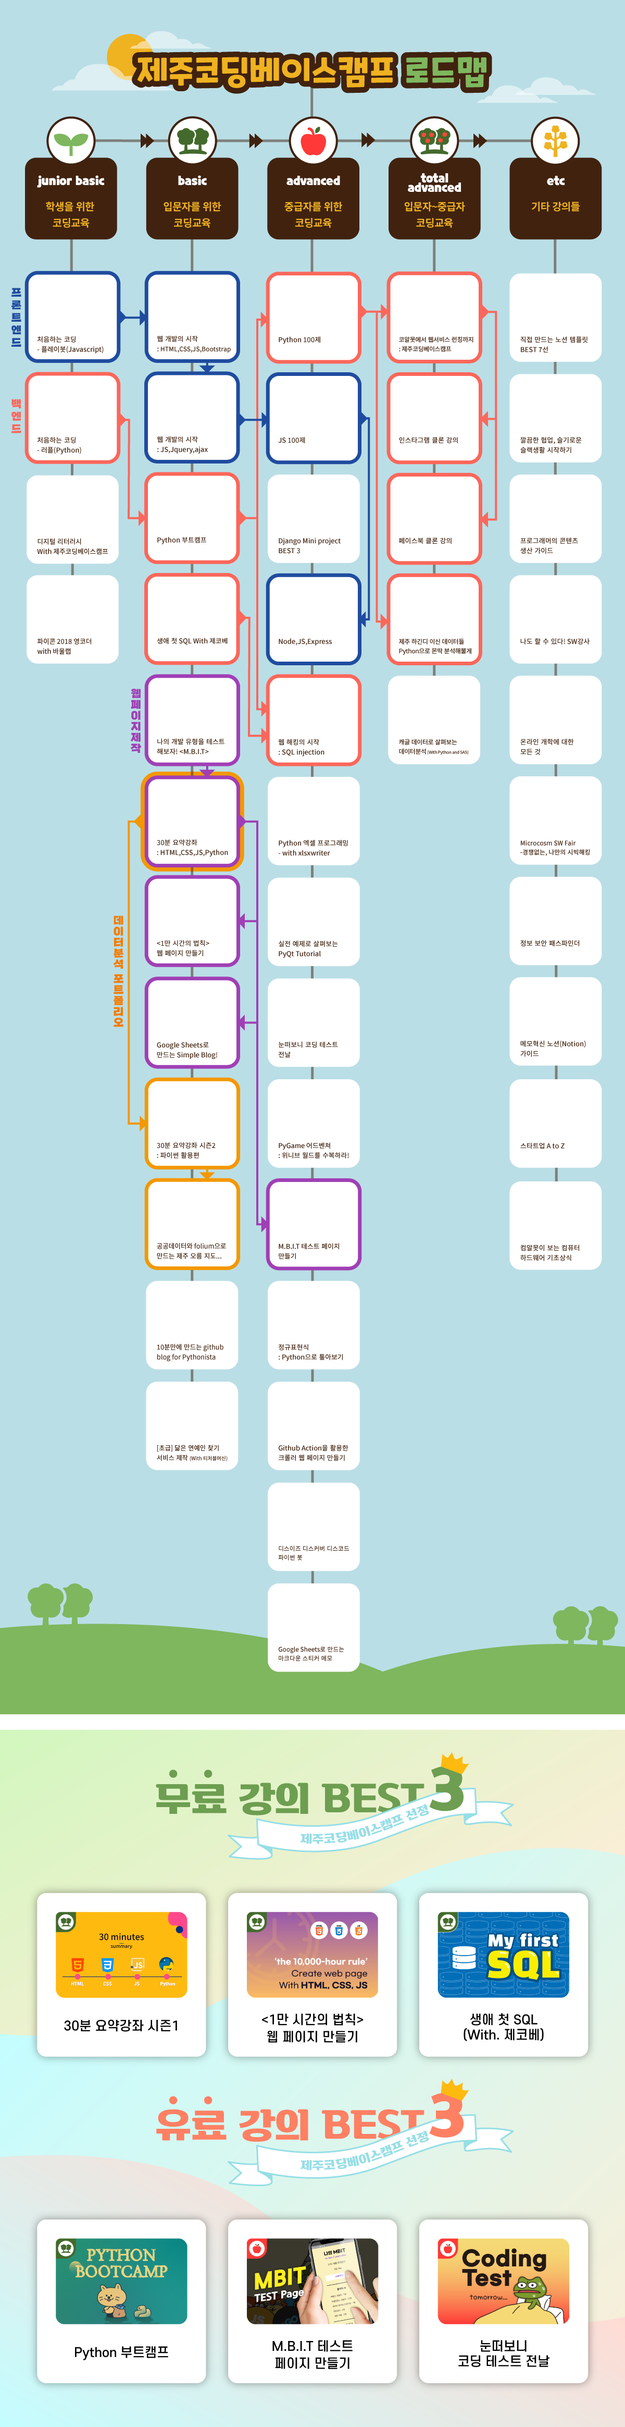
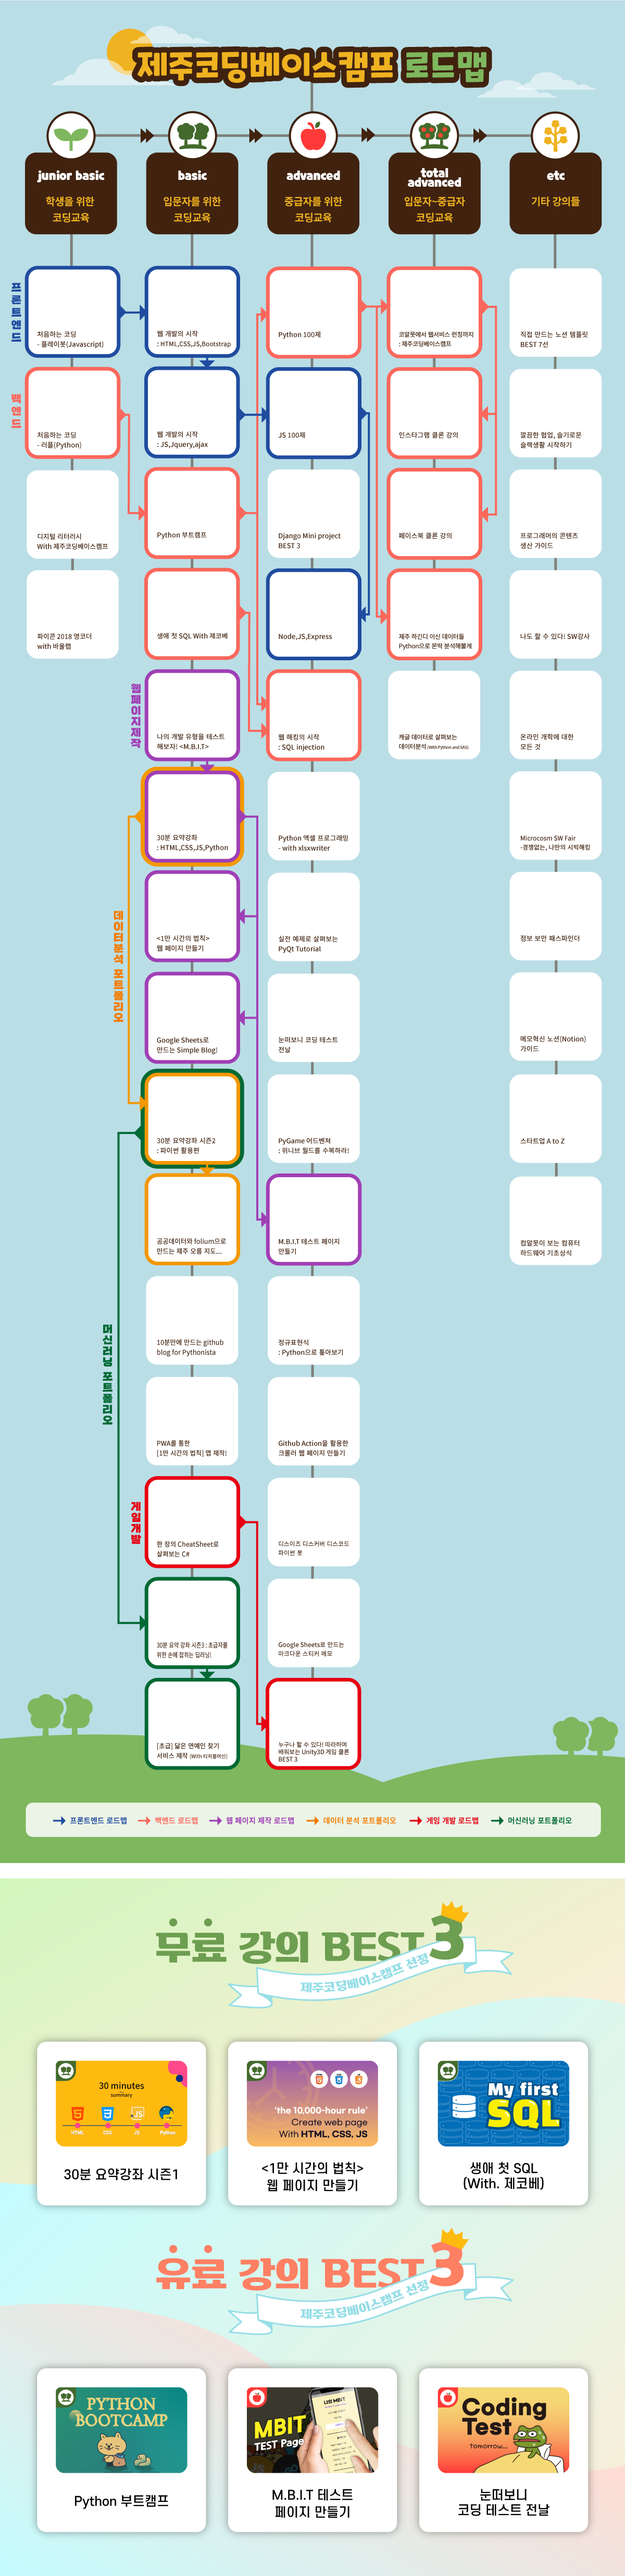
로드맵 수정

Changed region(s): [[0.0, 0.0, 1.0, 0.9968]]

diff --git a/Tutorial_Homepage/curriculum.html b/Tutorial_Homepage/curriculum.html
@@ -73,13 +73,13 @@
           <div class="roadmap">
             <img src="images/roadmap_bg.png" alt="제코베 로드맵" usemap="#roadmap_secret" />
             <map name="roadmap_secret">
-              <area shape="rect" coords="106, 3666, 359, 3830" href="https://www.inflearn.com/course/제주코딩-웹개발-30분요약" target="_blank" alt="30분요약강좌"/>
-              <area shape="rect" coords="473, 3666, 726, 3830" href="https://inf.run/pjvA" target="_blank" alt="1만시간의법칙"/>
-              <area shape="rect" coords="840, 3666, 1093, 3830" href="https://inf.run/4v6N" target="_blank" alt="생애첫SQL"/>
+              <area shape="rect" coords="106, 3950, 359, 4114" href="https://www.inflearn.com/course/제주코딩-웹개발-30분요약" target="_blank" alt="30분요약강좌"/>
+              <area shape="rect" coords="473, 3950, 726, 4114" href="https://inf.run/pjvA" target="_blank" alt="1만시간의법칙"/>
+              <area shape="rect" coords="840, 3950, 1093, 4114" href="https://inf.run/4v6N" target="_blank" alt="생애첫SQL"/>
 
-              <area shape="rect" coords="106, 4291, 359, 4455" href="https://inf.run/Ernr" target="_blank" alt="pyton부트캠프"/>
-              <area shape="rect" coords="473, 4291, 726, 4455" href="https://inf.run/D3mA" target="_blank" alt="mbit-테스트-페이지-웹개발"/>
-              <area shape="rect" coords="840, 4291, 1093, 4455" href="https://inf.run/PYxw" target="_blank" alt="눈떠보니코딩테스트전날"/>
+              <area shape="rect" coords="106, 4575, 359, 4739" href="https://inf.run/Ernr" target="_blank" alt="pyton부트캠프"/>
+              <area shape="rect" coords="473, 4575, 726, 4739" href="https://inf.run/D3mA" target="_blank" alt="mbit-테스트-페이지-웹개발"/>
+              <area shape="rect" coords="840, 4575, 1093, 4739" href="https://inf.run/PYxw" target="_blank" alt="눈떠보니코딩테스트전날"/>
             </map>
             <div class="inner">
               <!-- junior basic -->
@@ -133,6 +133,15 @@
                   <a href="https://inf.run/AdT1" target="_blank"><img src="images/lecture/lec45.png" alt="10분만에 만드는 github blog for Pythonista"/></a>
                 </div>
                 <div class="lec">
+                  <a href="https://www.inflearn.com/instructors/170213/courses" target="_blank"><img src="images/lecture/lec49.png" alt="PWA를 통한 1만 시간의 법칙 앱 제작!"/></a>
+                </div>
+                <div class="lec">
+                  <a href="https://inf.run/hSWY" target="_blank"><img src="images/lecture/lec47.png" alt="한 장의 cheatsheet로 살펴보는 C#"/></a>
+                </div>
+                <div class="lec">
+                  <a href="https://www.inflearn.com/instructors/170213/courses" target="_blank"><img src="images/lecture/lec48.png" alt="30분 요약 강좌 시즌3 : 초급자를 위한 손에 잡히는 딥러닝!"/></a>
+                </div>
+                <div class="lec">
                   <a href="https://inf.run/i7Re" target="_blank"><img src="images/lecture/lec46.png" alt="닮은 연예인 찾기 - 티처블머신"/></a>
                 </div>
               </div>
@@ -179,6 +188,9 @@
                 </div>
                 <div class="lec">
                   <a href="https://inf.run/GTzQ" target="_blank"><img src="images/lecture/lec44.png" alt="스티커메모"/></a>
+                </div>
+                <div class="lec">
+                  <a href="https://inf.run/E3Mc" target="_blank"><img src="images/lecture/lec50.png" alt="따라하며 배워보는 Unity3D 게임 클론 BEST3"/></a>
                 </div>
               </div>
               <!-- total advanced -->

diff --git a/Tutorial_Homepage/css/curriculum.css b/Tutorial_Homepage/css/curriculum.css
@@ -169,10 +169,10 @@ strong {
   position: absolute;
   margin-left: 47.5px;
   left: 0;
-  top: 364px;
+  top: 355.5px;
 }
 .roadmap .inner > div {
-  margin-right: 66.5px;
+  margin-right: 67px;
 }
 .roadmap .inner > div:last-child {
   margin: 0;
@@ -410,10 +410,10 @@ strong {
   }
   .roadmap .inner {
     margin-left: 18.4px;
-    top: 137px;
+    top: 134.5px;
   }
   .roadmap .inner > div {
-    margin-right: 26px;
+    margin-right: 26.4px;
   }
   .roadmap .inner .lec {
     width: 32px;
@@ -516,7 +516,7 @@ strong {
   }
   .roadmap .inner {
     margin-left: 38px;
-    top: 282px;
+    top: 276.5px;
   }
   .roadmap .inner > div {
     margin-right: 53px;
